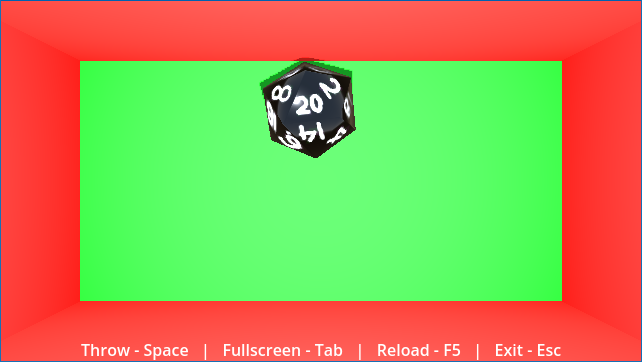
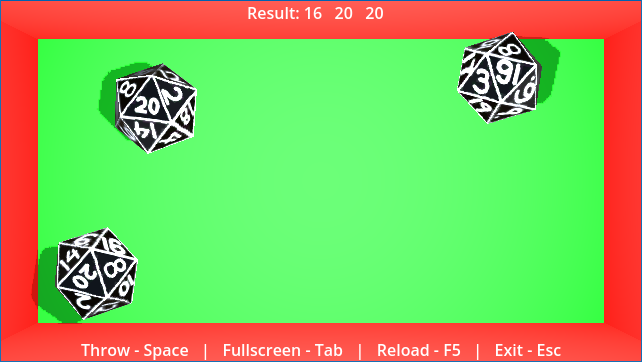
Updated readme and screenshot

Changed region(s): [[0.0312, 0.0912, 0.9657, 0.9116], [0.3738, 0.0, 0.5919, 0.0608]]

diff --git a/README.md b/README.md
@@ -1,13 +1,16 @@
 # CLAY DICE
 Sometimes you just gotta roll the dice and let the chips fall where they may.
 
-This is a dice rolling project that, in its current form, allows you to roll 4 twenty sided dice. They launch with satisfying speed and settle quickly. But, not before bouncing wildly off the walls!
+This is a dice rolling project that, in its current form, allows you to roll 6 and 20-sided dice. They launch with satisfying speed and settle quickly. But, not before bouncing wildly off the walls!
 
 <img src="./images/clay_dice.png">
 
+Add/remove dice with "+/-". Up to 8 dice can be added! Change die-type with "6" for 6-sided and "3" for 20-sided.
+
+If dice land on top of each other, then the top one is automatically re-rolled after a brief settling period. A numeric result is also displayed at the top of the screen.
+
 FUTURE GOALS:
-- Add hotkeys to add/remove dice: + add, - remove
-- Add 4, 6, 8, 10 and 12-sided dice
+- Add 4, 8, 10 and 12-sided dice
 - Add hotkeys to change die-type
   - 1 for 10-sided
   - 2 for 12-sided
@@ -15,12 +18,11 @@ FUTURE GOALS:
   - 4 for 4-sided
   - 6 for 6-sided
   - 8 for 8-sided
-- Add logic to un-stack dice when they land on one another
-- Display numeric result of dice roll
 - Enable player to change color of dice
-- Enable toggle of "always on top"
+- Enable toggle of " window always on top"
 - Add ability to save settings
 - Create new and improved textures
+- Improve environment
 
 STRETCH GOALS:
 - Add sound effects
@@ -33,6 +35,9 @@ COMPLETED:
 - Added fullscreen toggle
 - Increased physics iterations and precision
 - Enabled rolling multiple dice
+- Added 6-sided die
+- Enabled adding/removing dice
+- Enabled switching between die types
 
 OUT OF SCOPE:
 - TBD
